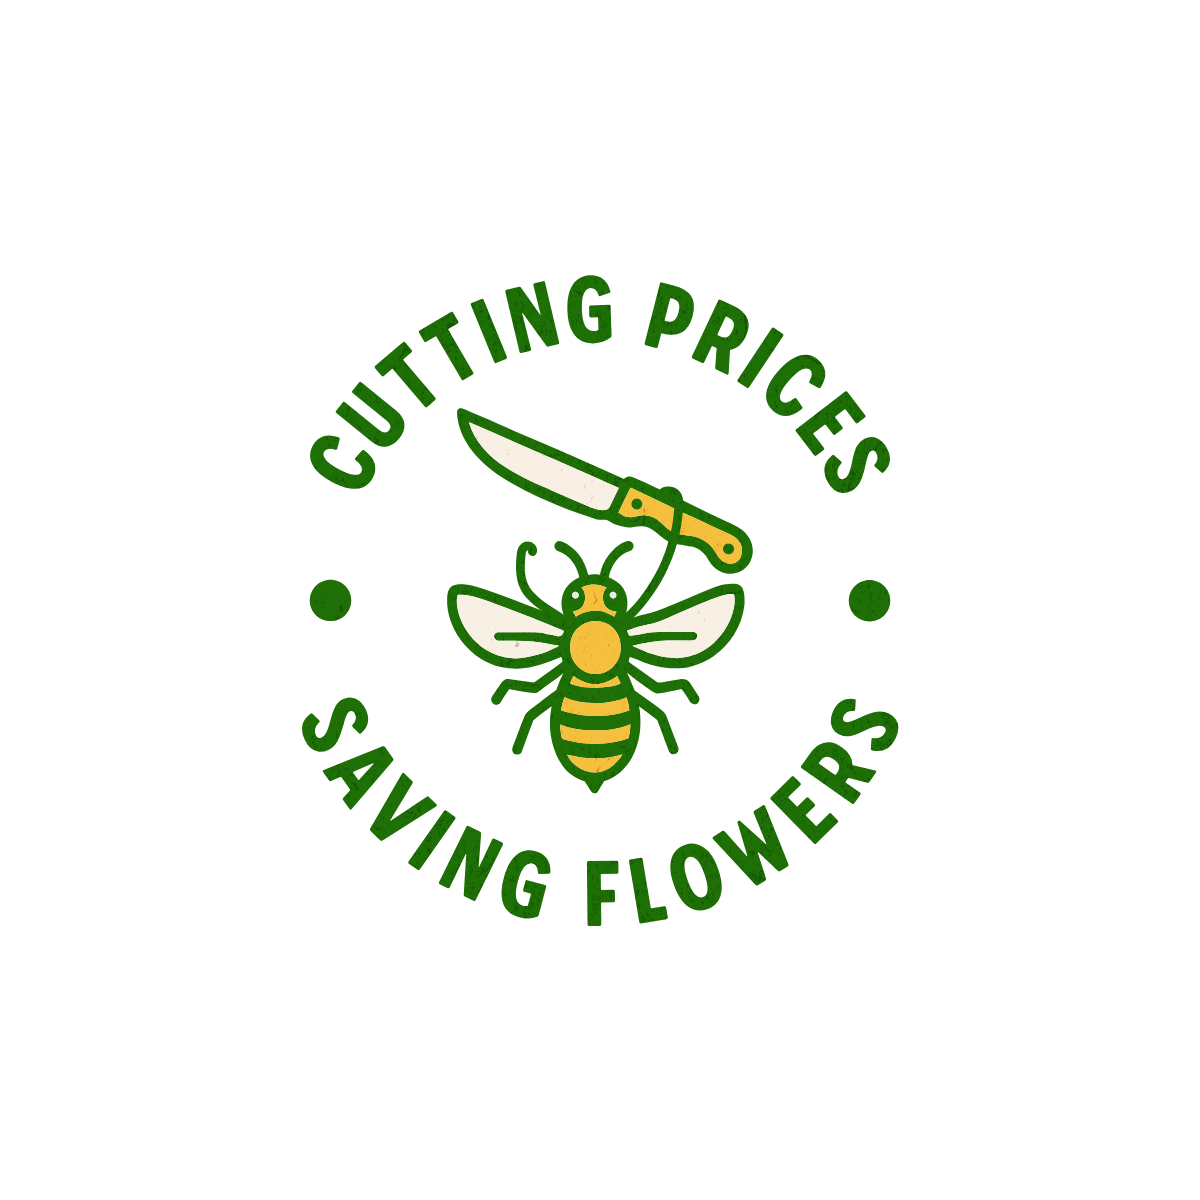
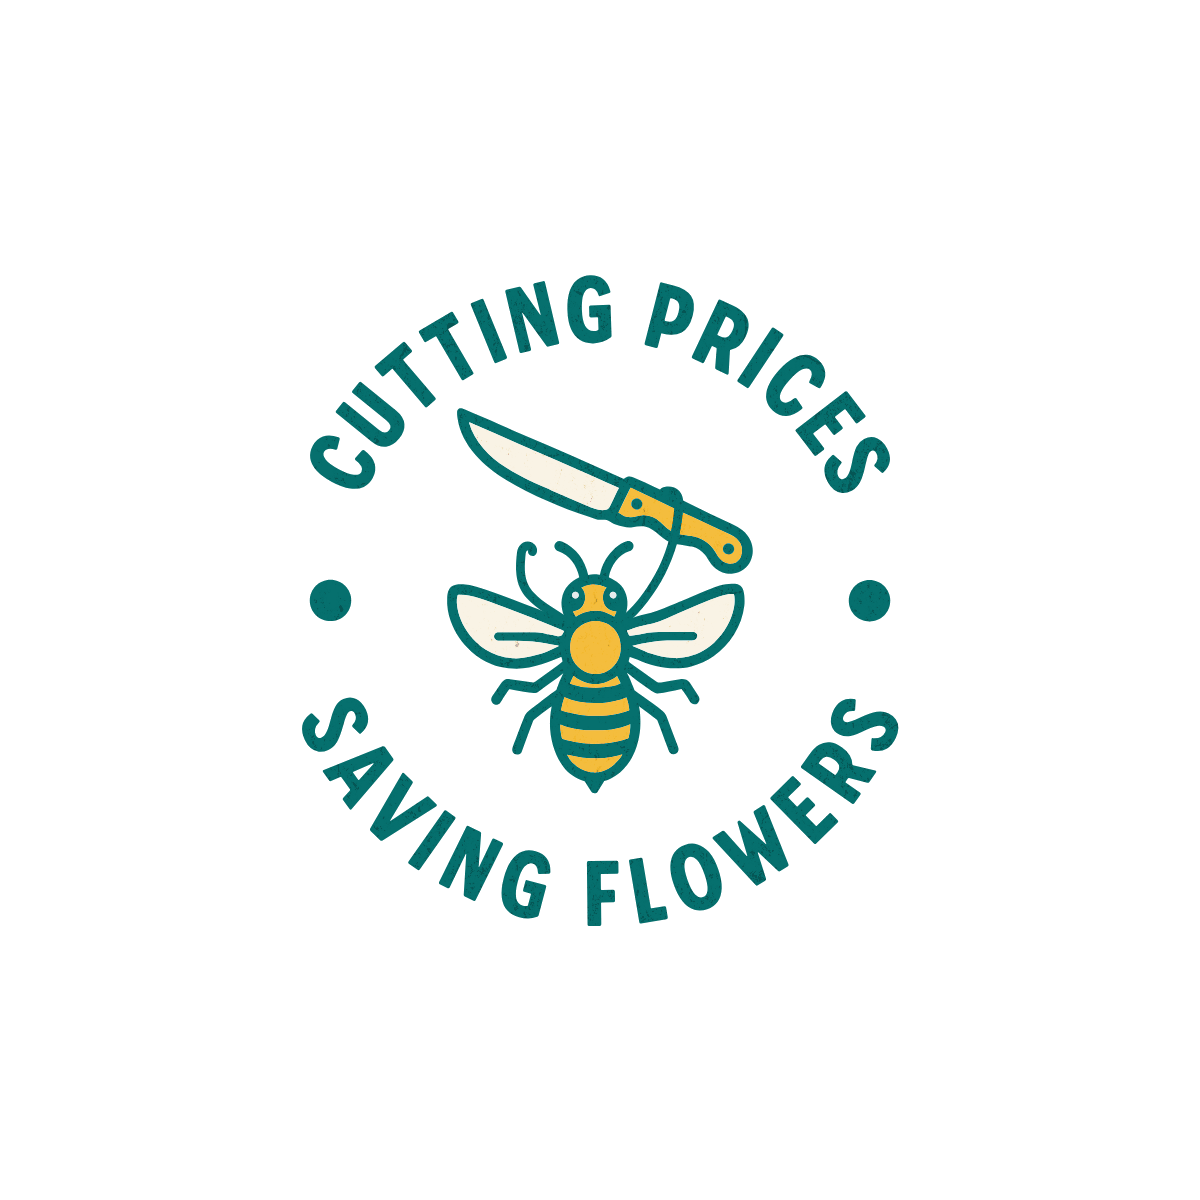
feat(design): Badge groesser + BEEDARO-Farben; Flying-Bee Easter Egg mit Spruechen
- Badge-PNG umgefaerbt: Gruen zu Teal 0E9493, Gelb zu F4C03F (pixelweise, HSL-Hue-Mapping)
- 404: Badge 280px; Bee-Rate-Stempel 156px (ab 1024px sichtbar)
- public/bee.svg: Vektor-Biene in Markenfarben, Fluegelschlag als eingebaute CSS-Animation
- FlyingBee: fliegt zufaellig alle paar Minuten in Wellenbahn durchs Bild (max 4x pro Sitzung),
  Klick pausiert sie fuer einen trockenen Spruch, danach beschleunigter Abflug;
  Geheimruf Alt+B oder bee tippen; prefers-reduced-motion deaktiviert alles
- RepLog + Beta-Checkpoint (Easter Egg nur angedeutet)

diff --git a/src/components/shared/FlyingBee.jsx b/src/components/shared/FlyingBee.jsx
@@ -1,0 +1,179 @@
+"use client";
+
+import { useEffect, useRef, useState } from "react";
+
+// Easter Egg: Biene fliegt selten quer durchs Bild. Klick stoppt sie fuer
+// einen trockenen Spruch, danach fliegt sie beschleunigt davon.
+// Geheime Abkuerzung: Alt+B oder "bee" tippen (ausserhalb von Eingabefeldern).
+
+const SPRUECHE = [
+  "Ich arbeite hier nur.",
+  "Schon was inseriert? Dein Keller weiss mehr.",
+  "Ich nehme 7 Prozent. Fürs Fliegen.",
+  "Weiter stöbern. Ich bestäube derweil.",
+  "Kein Honig. Nur gute Deals.",
+  "Ich bin die Qualitätskontrolle.",
+  "Du hast mich gefunden. Sag es niemandem.",
+  "Preise schneiden, Blumen retten. Was machst du so?",
+];
+
+const MAX_FLUEGE = 4; // pro Sitzung; die Tastenkombi zaehlt nicht mit
+
+export default function FlyingBee() {
+  const beeRef = useRef(null);
+  const animRef = useRef(null);
+  const timerRef = useRef(null);
+  const bubbleTimerRef = useRef(null);
+  const stateRef = useRef("idle"); // idle | flying | talking | exiting
+  const dirRef = useRef(1);
+  const [visible, setVisible] = useState(false);
+  const [size, setSize] = useState(92);
+  const [bubble, setBubble] = useState(null);
+
+  const reducedMotion = () =>
+    typeof window !== "undefined" && window.matchMedia("(prefers-reduced-motion: reduce)").matches;
+
+  const landen = () => {
+    stateRef.current = "idle";
+    setVisible(false);
+    setBubble(null);
+  };
+
+  const fliegen = (erzwungen = false) => {
+    const bee = beeRef.current;
+    if (!bee || stateRef.current !== "idle" || reducedMotion()) return;
+    if (!erzwungen) {
+      const n = parseInt(sessionStorage.getItem("bee_fluege") || "0", 10);
+      if (n >= MAX_FLUEGE) return;
+      sessionStorage.setItem("bee_fluege", String(n + 1));
+    }
+    stateRef.current = "flying";
+    const vw = window.innerWidth;
+    const vh = window.innerHeight;
+    setSize(vw < 640 ? 62 : 92);
+    setVisible(true);
+
+    const ltr = Math.random() < 0.5;
+    dirRef.current = ltr ? 1 : -1;
+    const x0 = ltr ? -160 : vw + 160;
+    const x1 = ltr ? vw + 160 : -160;
+    const baseY = vh * (0.15 + Math.random() * 0.45);
+    const amp = 30 + Math.random() * 60;
+    const freq = 2 + Math.random() * 1.5;
+    const phase = Math.random() * Math.PI * 2;
+
+    const steps = 10;
+    const frames = [];
+    for (let i = 0; i <= steps; i++) {
+      const t = i / steps;
+      const x = x0 + (x1 - x0) * t;
+      const y = baseY + Math.sin(phase + t * Math.PI * freq) * amp;
+      // Artwork schaut nach links, beim Flug nach rechts also spiegeln
+      frames.push({ transform: `translate(${x}px, ${y}px) scaleX(${ltr ? -1 : 1})` });
+    }
+    const anim = bee.animate(frames, { duration: 6500 + Math.random() * 2500, easing: "linear" });
+    animRef.current = anim;
+    anim.onfinish = landen;
+  };
+
+  const abflug = () => {
+    const bee = beeRef.current;
+    if (!bee) return landen();
+    stateRef.current = "exiting";
+    setBubble(null);
+    const m = new DOMMatrix(getComputedStyle(bee).transform);
+    const vw = window.innerWidth;
+    const zielX = dirRef.current > 0 ? vw + 200 : -200;
+    const alt = animRef.current;
+    if (alt) alt.cancel();
+    const anim = bee.animate(
+      [
+        { transform: `translate(${m.e}px, ${m.f}px) scaleX(${dirRef.current > 0 ? -1 : 1})` },
+        { transform: `translate(${zielX}px, ${m.f - 140}px) scaleX(${dirRef.current > 0 ? -1 : 1})` },
+      ],
+      { duration: 750, easing: "cubic-bezier(.5,0,1,.5)" }
+    );
+    animRef.current = anim;
+    anim.onfinish = landen;
+  };
+
+  const angeklickt = () => {
+    const bee = beeRef.current;
+    if (!bee || stateRef.current !== "flying") return;
+    stateRef.current = "talking";
+    if (animRef.current) animRef.current.pause();
+    const r = bee.getBoundingClientRect();
+    const x = Math.min(Math.max(r.left + r.width / 2, 130), window.innerWidth - 130);
+    setBubble({ x, y: Math.max(r.top, 70), text: SPRUECHE[Math.floor(Math.random() * SPRUECHE.length)] });
+    bubbleTimerRef.current = setTimeout(abflug, 3000);
+  };
+
+  useEffect(() => {
+    if (reducedMotion()) return;
+
+    // Zufalls-Fluege: erster nach 1-3 Minuten, danach alle 5-12 Minuten
+    let aktiv = true;
+    const naechster = (minS, maxS) => {
+      if (!aktiv) return;
+      timerRef.current = setTimeout(() => {
+        fliegen(false);
+        naechster(300, 720);
+      }, (minS + Math.random() * (maxS - minS)) * 1000);
+    };
+    naechster(60, 180);
+
+    // Geheime Abkuerzung: Alt+B oder "bee" tippen
+    let puffer = "";
+    const onKey = (e) => {
+      if (e.altKey && e.key.toLowerCase() === "b") { fliegen(true); return; }
+      const t = e.target;
+      if (t && (t.tagName === "INPUT" || t.tagName === "TEXTAREA" || t.isContentEditable)) return;
+      if (e.key.length === 1) {
+        puffer = (puffer + e.key.toLowerCase()).slice(-3);
+        if (puffer === "bee") { puffer = ""; fliegen(true); }
+      }
+    };
+    window.addEventListener("keydown", onKey);
+    return () => {
+      aktiv = false;
+      clearTimeout(timerRef.current);
+      clearTimeout(bubbleTimerRef.current);
+      window.removeEventListener("keydown", onKey);
+    };
+    // eslint-disable-next-line react-hooks/exhaustive-deps
+  }, []);
+
+  return (
+    <>
+      {/* eslint-disable-next-line @next/next/no-img-element */}
+      <img
+        ref={beeRef}
+        src="/bee.svg"
+        alt=""
+        aria-hidden="true"
+        onClick={angeklickt}
+        style={{
+          position: "fixed", left: 0, top: 0, width: size, height: "auto",
+          zIndex: 9000, cursor: "pointer", willChange: "transform",
+          display: visible ? "block" : "none",
+          pointerEvents: visible ? "auto" : "none",
+        }}
+      />
+      {bubble && (
+        <div
+          aria-hidden="true"
+          style={{
+            position: "fixed", left: bubble.x, top: bubble.y - 12,
+            transform: "translate(-50%, -100%)", zIndex: 9001,
+            background: "#fff", border: "1.5px solid #191615",
+            boxShadow: "2px 2px 0 #191615", padding: "9px 13px",
+            fontFamily: "'Manrope', sans-serif", fontSize: 13, fontWeight: 600,
+            color: "#191615", maxWidth: 250, pointerEvents: "none",
+          }}
+        >
+          {bubble.text}
+        </div>
+      )}
+    </>
+  );
+}

diff --git a/src/lib/replog.js b/src/lib/replog.js
@@ -44,7 +44,8 @@ export const REP_LOG = [
       { typ: "fix", bereich: "Nachrichten", text: "Öffentliche Fragen zu Inseraten erscheinen jetzt auch im Nachrichten-Tab (mit Inserat-Bild und 'Öffentlich'-Chip), vorher waren sie nur auf der Inserat-Seite zu finden", melder: "Denis" },
       { typ: "fix", bereich: "Nachrichten", text: "Fragen-Bereich unterm Inserat neu gestaltet: Absendername steht jetzt an jeder Nachricht (auch an den eigenen), Verkäufer-Chip im Beedaro-Look, richtiger Senden-Knopf statt Icon" },
       { typ: "fix", bereich: "Nachrichten", text: "Chat-Nachrichten und Preisvorschläge aus dem Nachrichten-Tab lösten keine Mail/Push aus, jetzt zentral für alle Sendewege" },
-      { typ: "neu", bereich: "Design", text: "Neuer 'Cutting Prices, Saving Flowers'-Badge: eigene 404-Seite (Diese Seite wurde weggeschnitten) und Stempel auf der Bee-Rate-Box unter So funktioniert's" },
+      { typ: "neu", bereich: "Design", text: "Neuer 'Cutting Prices, Saving Flowers'-Badge in BEEDARO-Farben: eigene 404-Seite (Diese Seite wurde weggeschnitten) und Stempel auf der Bee-Rate-Box unter So funktioniert's" },
+      { typ: "neu", bereich: "Design", text: "Easter Egg eingebaut: Gelegentlich fliegt Besuch mit Flügelschlag durchs Bild. Anklicken lohnt sich, sie hat was zu sagen" },
       { typ: "fix", bereich: "Mails & Push", text: "Bewertungen, neue Nachrichten und Fragen zum Inserat lösten weder Mail noch Push aus (nur die Glocke), jetzt greifen die Schalter in den Einstellungen", melder: "Denis" },
     ],
   },

diff --git a/src/app/(public)/beta/page.jsx b/src/app/(public)/beta/page.jsx
@@ -395,6 +395,7 @@ const TESTS = [
       { id: "adm_ticker", label: "Grosse Laufschrift (Kommunikation): eigener Text/Farbe/Platzierung, Live-Vorschau läuft; erscheint gross auf der Startseite unter dem Hero oder auf allen Seiten unter dem Header; Header-Banner grösser ohne Megafon" },
       { id: "chat_oeffentliche_fragen", label: "Nachrichten-Tab zeigt auch öffentliche Inserat-Fragen (Chip 'Öffentlich', Inserat-Bild); Fragen-Bereich unterm Inserat mit Namen an JEDER Nachricht ('Du · Name'), Senden-Knopf, Chat-Nachrichten lösen Mail/Push aus" },
       { id: "badge_404", label: "Falsche URL aufrufen (z.B. beedaro.ch/gibtsnicht): 404-Seite mit Bienen-Badge 'Diese Seite wurde weggeschnitten'; auf 'So funktioniert's' klebt der Badge als Stempel auf der Bee-Rate-Box (nur Desktop)" },
+      { id: "easter_egg_biene", label: "Geduldsprobe: Ein paar Minuten auf der Seite bleiben. Irgendwann fliegt etwas durchs Bild. Anklicken, bevor es weg ist" },
       { id: "mieten_periodenpreis", label: "Mieten: Wochen-/Monatspreis wird pro Periode gerechnet (11 Tage à 50/Woche = 2 Wochen = CHF 100), Vorschau-Box zeigt 'X Tage = Y Wochen'" },
       { id: "kauf_adresse_pflicht", label: "Sofortkauf und Gebot ohne Lieferadresse blockiert mit Hinweis aufs Profil (auch im Auktions-Modal)" },
       { id: "ord_rechnung_beide", label: "QR-Rechnung auf der Bestellseite für Käufer UND Verkäufer sichtbar (Verkäufer: eigene Rechnung-Box rechts)" },

diff --git a/src/app/not-found.tsx b/src/app/not-found.tsx
@@ -8,7 +8,7 @@ export default function NotFound() {
           Fehler 404 · Seite entfernt
         </div>
         {/* eslint-disable-next-line @next/next/no-img-element */}
-        <img src="/badge-cutting-prices.png" alt="Cutting Prices, Saving Flowers" style={{ width: 190, maxWidth: "60vw", height: "auto", margin: "0 auto 20px", display: "block" }} />
+        <img src="/badge-cutting-prices.png" alt="Cutting Prices, Saving Flowers" style={{ width: 280, maxWidth: "72vw", height: "auto", margin: "0 auto 24px", display: "block" }} />
         <h1 style={{ fontSize: 22, fontWeight: 800, margin: "0 0 8px", fontFamily: "'General Sans', sans-serif", letterSpacing: ".03em" }}>DIESE SEITE WURDE WEGGESCHNITTEN</h1>
         <p style={{ fontSize: 14, color: "#8a8078", margin: "0 0 28px", lineHeight: 1.6 }}>
           Den Blumen geht es gut. Der Link leider nicht: er existiert nicht oder wurde verschoben.

diff --git a/src/app/(public)/layout.tsx b/src/app/(public)/layout.tsx
@@ -7,6 +7,7 @@ import { BottomNav } from '@/components/layout/BottomNav'
 import { FloatingButton } from '@/components/layout/FloatingButton'
 import { BannedGate } from '@/components/layout/BannedGate'
 import SiteGate from '@/components/shared/SiteGate'
+import FlyingBee from '@/components/shared/FlyingBee'
 
 export default function PublicLayout({
   children,
@@ -29,6 +30,8 @@ export default function PublicLayout({
       <div className="no-print fab-desktop-only"><FloatingButton /></div>
       <div className="no-print bottom-nav-mobile"><BottomNav /></div>
       <BannedGate />
+      {/* Easter Egg: fliegt selten durchs Bild; Alt+B oder "bee" tippen ruft sie */}
+      <div className="no-print"><FlyingBee /></div>
     </SiteGate>
   )
 }

diff --git a/src/app/globals.css b/src/app/globals.css
@@ -410,9 +410,9 @@ input:focus, textarea:focus, select:focus {
 /* Badge-Stempel auf der Bee-Rate-Box (So funktioniert's) */
 .fee-stamp {
   position: absolute;
-  top: 16px;
-  right: 20px;
-  width: 104px;
+  top: 14px;
+  right: 22px;
+  width: 156px;
   height: auto;
   transform: rotate(7deg);
 }
